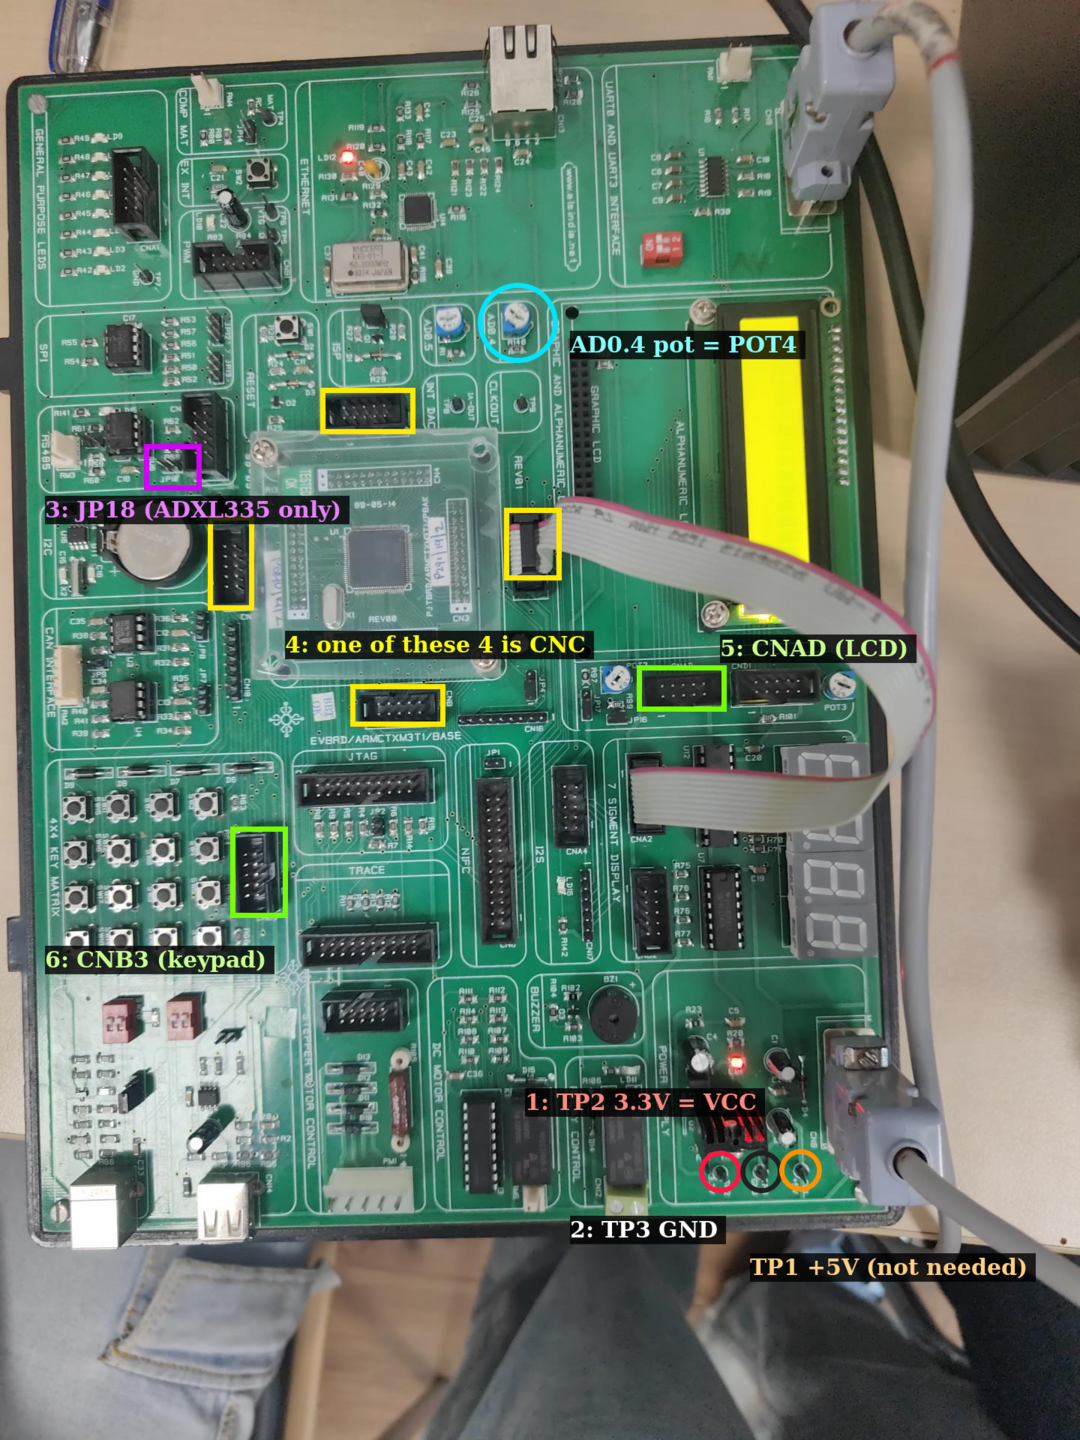
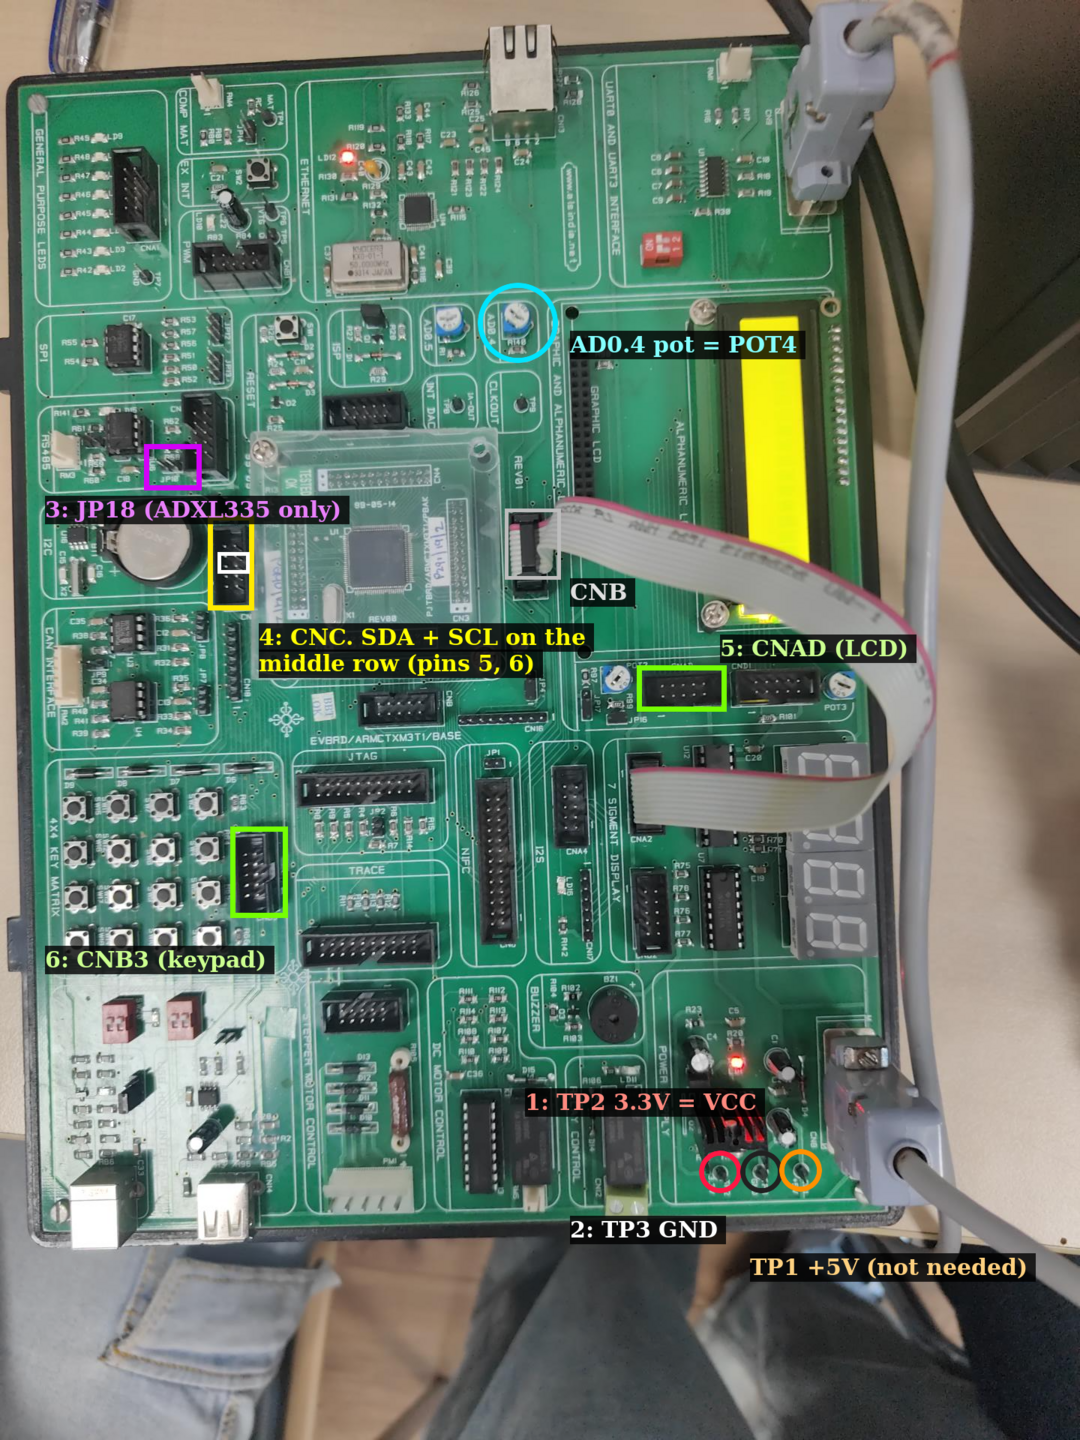
Build guide: CNC location confirmed on the lab board

Changed region(s): [[0.2139, 0.3438, 0.6111, 0.5312], [0.275, 0.25, 0.3972, 0.3125], [0.1833, 0.375, 0.2444, 0.4062]]

diff --git a/docs/BUILD_GUIDE.md b/docs/BUILD_GUIDE.md
@@ -120,11 +120,15 @@ male pins).
 |---|---|
 | VCC | **TP2, marked "3.3V"**, in the POWER SUPPLY box at the bottom right of the board |
 | GND | **TP3, marked "GND"**, right next to TP2 (or pin 10 of any 10-pin FRC connector) |
-| SCL | Connector **CNC**, the pin for P0.20 (most likely pin 6) |
-| SDA | Connector **CNC**, the pin for P0.19 (most likely pin 5) |
+| SCL | Connector **CNC** (the upright 10-pin socket left of the processor cover, beside the coin cell), middle row, pin 6 (P0.20) |
+| SDA | Connector **CNC**, middle row, pin 5 (P0.19), next to SCL |
 | XDA, XCL, AD0, INT | Leave unconnected |
 
-**Finding pins 5 and 6 on CNC:** the 10-pin box connector has a small
+**Pins 5 and 6 are always the middle pair** of a 10-pin socket (pairs go
+1-2, 3-4, 5-6, 7-8, 9-10), so put SDA and SCL on the two middle pins. If the
+LCD says MPU6050 NOT FOUND, just swap those two wires.
+
+**Finding pin 1 on CNC (only matters for pin 10):** the 10-pin box connector has a small
 triangle or "1" next to pin 1. Pins are numbered in a zigzag: 1 and 2 face
 each other, then 3 and 4, and so on, with pin 10 at the far end. Check the
 CNC picture in Appendix C of the lab manual (or ask the staff) to confirm
